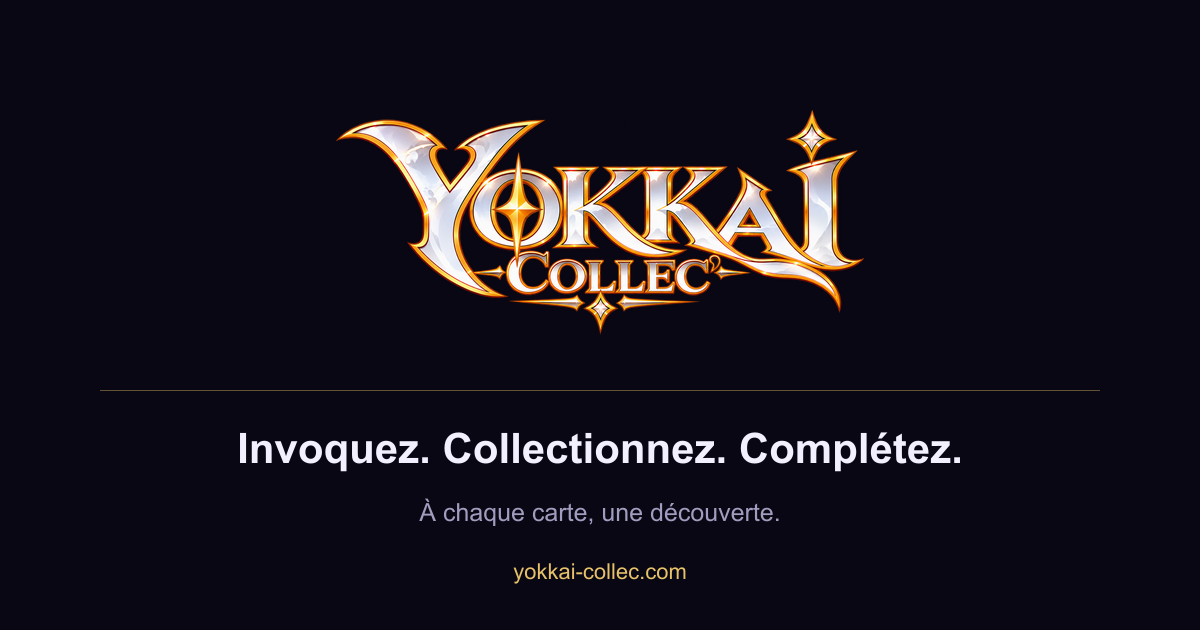
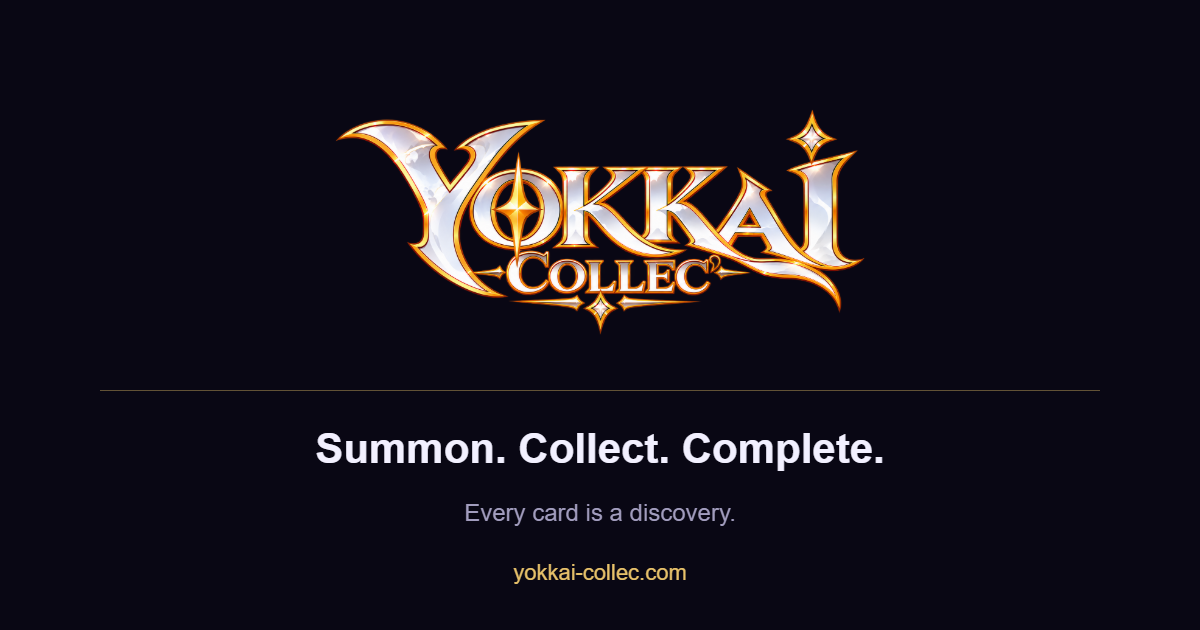
fix: translate homepage sharing image to English

diff --git a/scripts/og-image/index.html b/scripts/og-image/index.html
@@ -1,0 +1,71 @@
+<!doctype html>
+<html lang="en">
+  <meta charset="utf-8" />
+  <title>Yokkai Collec sharing image</title>
+  <style>
+    * {
+      box-sizing: border-box;
+    }
+    html,
+    body {
+      margin: 0;
+      width: 1200px;
+      height: 630px;
+      overflow: hidden;
+    }
+    body {
+      background: #090714;
+      color: #f2f0ff;
+      font-family: Arial, sans-serif;
+      text-align: center;
+    }
+    img {
+      position: absolute;
+      width: 540px;
+      height: 270px;
+      left: 330px;
+      top: 80px;
+    }
+    hr {
+      position: absolute;
+      left: 100px;
+      top: 390px;
+      width: 1000px;
+      margin: 0;
+      border: 0;
+      border-top: 1px solid #625236;
+    }
+    h1 {
+      position: absolute;
+      top: 424px;
+      width: 100%;
+      margin: 0;
+      font-size: 42px;
+      line-height: 50px;
+    }
+    p {
+      position: absolute;
+      top: 498px;
+      width: 100%;
+      margin: 0;
+      color: #a29dbe;
+      font-size: 24px;
+      line-height: 29px;
+    }
+    footer {
+      position: absolute;
+      top: 560px;
+      width: 100%;
+      color: #e8c26a;
+      font-size: 22px;
+      line-height: 26px;
+    }
+  </style>
+  <body>
+    <img src="../../public/assets/header-logo-gold.png" alt="Yokkai Collec" />
+    <hr />
+    <h1>Summon. Collect. Complete.</h1>
+    <p>Every card is a discovery.</p>
+    <footer>yokkai-collec.com</footer>
+  </body>
+</html>

diff --git a/scripts/og-image/README.md b/scripts/og-image/README.md
@@ -1,0 +1,1 @@
+Regenerate with `node scripts/og-image/render.cjs`; use already-installed Playwright via `NODE_PATH` if necessary and `CHROMIUM_PATH` for a custom Chromium executable. No npm dependency is added. The native Arial face preserves the original raster typography; the ornate lettering belongs to the existing logo asset, not a new font.
